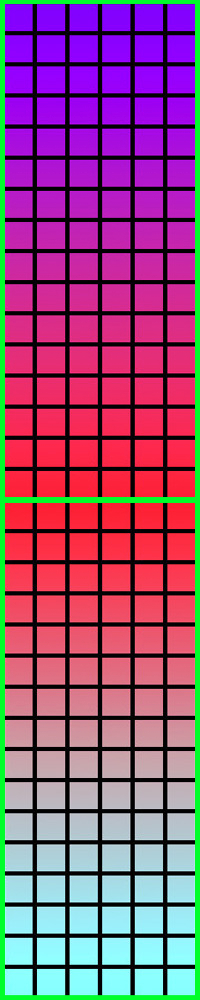
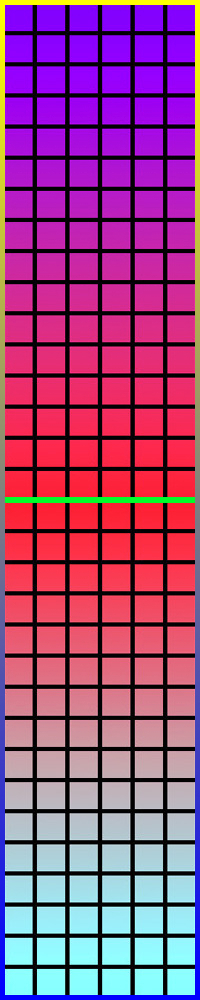
change few things
* add render function
* preserve image aspect on resize
* load image at start

Changed region(s): [[0.0, 0.0, 1.0, 1.0]]

diff --git a/index.js b/index.js
@@ -1,20 +1,21 @@
 'use strict';
 
-var fps = 30;
+var fps = 60;
+var initialOffset;
 var canvas;
 var gl;
 
 var shaderProgram;
 
-var uPMatrixLoc;
-var uMVMatrixLoc;
-var aTextureCoordLoc;
-var aVertexPositionLoc;
-
-var uSamplerLoc;
-var uTextureOffsetLoc;
-var uIsBufferLoc;
-var uBGAspectLoc;
+var aTextureCoord;
+var aVertexPosition;
+var uBGAspect;
+var uInitialOffset;
+var uIsBuffer;
+var uMVMatrix;
+var uPMatrix;
+var uSampler;
+var uTextureOffset;
 
 var backgroundTexture;
 
@@ -42,7 +43,7 @@ function mvPushMatrix() {
 
 function mvPopMatrix() {
     if (mvMatrixStack.length == 0) {
-        throw "Invalid popMatrix!";
+        throw 'Invalid popMatrix!';
     }
     mvMatrix = mvMatrixStack.pop();
 }
@@ -58,7 +59,7 @@ function getShader(gl, id) {
         return null;
     }
 
-    var str = "";
+    var str = '';
     var k = shaderScript.firstChild;
     while (k) {
         if (k.nodeType === 3) {
@@ -88,6 +89,21 @@ function getShader(gl, id) {
 }
 
 
+var last = 0;
+function render(HRTimestamp) {
+    requestAnimationFrame(render);
+
+    if (HRTimestamp - last < 1000 / fps) {
+        return;
+    }
+    last = HRTimestamp;
+
+    resize();
+    drawSceneTexture();
+    drawScene();
+}
+
+
 function drawSceneTexture() {
     gl.bindFramebuffer(gl.FRAMEBUFFER, rttFramebuffer);
     gl.viewport(0, 0, rttFramebuffer.width, rttFramebuffer.height);
@@ -95,19 +111,19 @@ function drawSceneTexture() {
 
 
     gl.bindBuffer(gl.ARRAY_BUFFER, textureScreenVertexPositionBuffer);
-    gl.vertexAttribPointer(aVertexPositionLoc, textureScreenVertexPositionBuffer.itemSize, gl.FLOAT, false, 0, 0);
+    gl.vertexAttribPointer(aVertexPosition, textureScreenVertexPositionBuffer.itemSize, gl.FLOAT, false, 0, 0);
 
     gl.bindBuffer(gl.ARRAY_BUFFER, textureScreenTextureCoordBuffer);
-    gl.vertexAttribPointer(aTextureCoordLoc, textureScreenTextureCoordBuffer.itemSize, gl.FLOAT, false, 0, 0);
+    gl.vertexAttribPointer(aTextureCoord, textureScreenTextureCoordBuffer.itemSize, gl.FLOAT, false, 0, 0);
 
     gl.activeTexture(gl.TEXTURE0);
     gl.bindTexture(gl.TEXTURE_2D, backgroundTexture);
-    gl.uniform1i(uSamplerLoc, 0);
-    gl.uniform1i(uIsBufferLoc, true);
+    gl.uniform1i(uSampler, 0);
+    gl.uniform1i(uIsBuffer, true);
 
     gl.bindBuffer(gl.ELEMENT_ARRAY_BUFFER, textureScreenIndexBuffer);
-    gl.uniformMatrix4fv(uPMatrixLoc, false, pMatrix);
-    gl.uniformMatrix4fv(uMVMatrixLoc, false, mvMatrix);
+    gl.uniformMatrix4fv(uPMatrix, false, pMatrix);
+    gl.uniformMatrix4fv(uMVMatrix, false, mvMatrix);
     gl.drawElements(gl.TRIANGLES, textureScreenIndexBuffer.numItems, gl.UNSIGNED_SHORT, 0);
 
     gl.bindTexture(gl.TEXTURE_2D, rttTexture);
@@ -116,19 +132,7 @@ function drawSceneTexture() {
 }
 
 
-var last = 0;
-function drawScene(HRTimestamp) {
-    requestAnimationFrame(drawScene);
-    if (HRTimestamp - last < 1000 / fps) {
-        return;
-    }
-
-    last = HRTimestamp;
-
-    resize();
-
-    drawSceneTexture();
-
+function drawScene() {
     gl.bindFramebuffer(gl.FRAMEBUFFER, null);
     gl.viewport(0, 0, gl.drawingBufferWidth, gl.drawingBufferHeight);
     gl.clear(gl.COLOR_BUFFER_BIT | gl.DEPTH_BUFFER_BIT);
@@ -138,42 +142,42 @@ function drawScene(HRTimestamp) {
     mat4.translate(mvMatrix, [0, 0, -1]);
 
     gl.bindBuffer(gl.ARRAY_BUFFER, mainScreenVertexPositionBuffer);
-    gl.vertexAttribPointer(aVertexPositionLoc, mainScreenVertexPositionBuffer.itemSize, gl.FLOAT, false, 0, 0);
+    gl.vertexAttribPointer(aVertexPosition, mainScreenVertexPositionBuffer.itemSize, gl.FLOAT, false, 0, 0);
 
     gl.bindBuffer(gl.ARRAY_BUFFER, mainScreenTextureCoordBuffer);
-    gl.vertexAttribPointer(aTextureCoordLoc, mainScreenTextureCoordBuffer.itemSize, gl.FLOAT, false, 0, 0);
+    gl.vertexAttribPointer(aTextureCoord, mainScreenTextureCoordBuffer.itemSize, gl.FLOAT, false, 0, 0);
 
     gl.activeTexture(gl.TEXTURE1);
     gl.bindTexture(gl.TEXTURE_2D, rttTexture);
-    gl.uniform1i(uSamplerLoc, 1);
-    gl.uniform1i(uIsBufferLoc, false);
+    gl.uniform1i(uSampler, 1);
+    gl.uniform1i(uIsBuffer, false);
 
     gl.bindBuffer(gl.ELEMENT_ARRAY_BUFFER, mainScreenIndexBuffer);
-    gl.uniformMatrix4fv(uPMatrixLoc, false, pMatrix);
-    gl.uniformMatrix4fv(uMVMatrixLoc, false, mvMatrix);
+    gl.uniformMatrix4fv(uPMatrix, false, pMatrix);
+    gl.uniformMatrix4fv(uMVMatrix, false, mvMatrix);
     gl.drawElements(gl.TRIANGLES, mainScreenIndexBuffer.numItems, gl.UNSIGNED_SHORT, 0);
 }
 
 
 function resize() {
-    var displayWidth  = canvas.clientWidth;
-    var displayHeight = canvas.clientHeight;
-
-    if (canvas.width  !== displayWidth || canvas.height !== displayHeight) {
-        canvas.width  = displayWidth;
-        canvas.height = displayHeight;
+    if (canvas.width === canvas.clientWidth && canvas.height === canvas.clientHeight) {
+        return;
     }
 
-    var aspect = backgroundTexture.image.height / backgroundTexture.image.width / (canvas.clientHeight / canvas.clientWidth);
-    gl.uniform1f(uBGAspectLoc, aspect);
+    canvas.width = canvas.clientWidth;
+    canvas.height = canvas.clientHeight;
+
+    var aspect = (backgroundTexture.image.height / backgroundTexture.image.width) / (canvas.height / canvas.width);
+    gl.uniform1f(uBGAspect, aspect);
+
+    initialOffset = (1 - 1 / aspect) / 2;
+    gl.uniform2f(uInitialOffset, 0, initialOffset);
+    console.log(initialOffset)
 }
 
 
 function initWebGL(canvas) {
     gl = canvas.getContext('webgl');
-
-    canvas.height = canvas.clientHeight;
-    canvas.width = canvas.clientWidth;
 
     gl.clearColor(0, 0, 0, 1);
     gl.enable(gl.DEPTH_TEST);
@@ -181,8 +185,8 @@ function initWebGL(canvas) {
 
 
 function initProgram() {
-    var fragmentShader = getShader(gl, 'shader-fs');
-    var vertexShader = getShader(gl, 'shader-vs');
+    var fragmentShader = getShader(gl, 'fragment-shader');
+    var vertexShader = getShader(gl, 'vertex-shader');
 
     shaderProgram = gl.createProgram();
     gl.attachShader(shaderProgram, vertexShader);
@@ -194,14 +198,28 @@ function initProgram() {
     }
 
     gl.useProgram(shaderProgram);
+
+    aVertexPosition = gl.getAttribLocation(shaderProgram, 'aVertexPosition');
+    aTextureCoord = gl.getAttribLocation(shaderProgram, 'aTextureCoord');
+    gl.enableVertexAttribArray(aVertexPosition);
+    gl.enableVertexAttribArray(aTextureCoord);
+
+    uBGAspect = gl.getUniformLocation(shaderProgram, 'uBGAspect');
+    uIsBuffer = gl.getUniformLocation(shaderProgram, 'uIsBuffer');
+    uInitialOffset = gl.getUniformLocation(shaderProgram, 'uInitialOffset');
+    uMVMatrix = gl.getUniformLocation(shaderProgram, 'uMVMatrix');
+    uPMatrix = gl.getUniformLocation(shaderProgram, 'uPMatrix');
+    uSampler = gl.getUniformLocation(shaderProgram, 'uSampler');
+    uTextureOffset = gl.getUniformLocation(shaderProgram, 'uTextureOffset');
 }
 
 
 function initbackgroundTexture() {
     backgroundTexture = gl.createTexture();
     backgroundTexture.image = new Image();
-    backgroundTexture.image.src = 'moseshi.jpg';
-    backgroundTexture.image.onload = function () {
+    backgroundTexture.image.src = 'moseshi.2.jpg';
+    // backgroundTexture.image.src = 'long.jpg';
+    backgroundTexture.image.addEventListener('load', function () {
         /* use TEXTURE0 for backgroundTexture */
         gl.bindTexture(gl.TEXTURE_2D, backgroundTexture);
         gl.pixelStorei(gl.UNPACK_FLIP_Y_WEBGL, true);
@@ -214,17 +232,15 @@ function initbackgroundTexture() {
         gl.texParameteri(gl.TEXTURE_2D, gl.TEXTURE_WRAP_T, gl.CLAMP_TO_EDGE);
 
         gl.bindTexture(gl.TEXTURE_2D, null);
-
-        requestAnimationFrame(drawScene);
-    }
+    });
 }
 
 
 function initTextureFramebuffer() {
     rttFramebuffer = gl.createFramebuffer();
     gl.bindFramebuffer(gl.FRAMEBUFFER, rttFramebuffer);
-    rttFramebuffer.width = 2048;
-    rttFramebuffer.height = 2048;
+    rttFramebuffer.width = 1024;
+    rttFramebuffer.height = 1024;
 
     /* use TEXTURE1 for rttTexture */
     rttTexture = gl.createTexture();
@@ -335,23 +351,7 @@ function webGLStart() {
     canvas = document.getElementById('canvas');
     initWebGL(canvas);
 
-
     initProgram();
-
-    uPMatrixLoc = gl.getUniformLocation(shaderProgram, 'uPMatrix');
-    uMVMatrixLoc = gl.getUniformLocation(shaderProgram, 'uMVMatrix');
-
-    uSamplerLoc = gl.getUniformLocation(shaderProgram, 'uSampler');
-    uTextureOffsetLoc = gl.getUniformLocation(shaderProgram, 'uTextureOffset');
-    uIsBufferLoc = gl.getUniformLocation(shaderProgram, 'uIsBuffer');
-    uBGAspectLoc = gl.getUniformLocation(shaderProgram, 'uBGAspect');
-
-    aVertexPositionLoc = gl.getAttribLocation(shaderProgram, 'aVertexPosition');
-    gl.enableVertexAttribArray(aVertexPositionLoc);
-
-    aTextureCoordLoc = gl.getAttribLocation(shaderProgram, 'aTextureCoord');
-    gl.enableVertexAttribArray(aTextureCoordLoc);
-
 
     initbackgroundTexture();
     initTextureFramebuffer();
@@ -359,13 +359,16 @@ function webGLStart() {
     initMainScreen();
     initTextureScreen();
 
-    var uTextureOffset = 0;
-    window.onkeydown=function(e) {
+    var offset = 0;
+    window.addEventListener('keydown', function(e) {
         if (e.key === 'ArrowDown') {
-            uTextureOffset -= .005;
+            offset -= .001;
         } else if (e.key === 'ArrowUp') {
-            uTextureOffset += .005;
+            offset += .001;
         }
-        gl.uniform2f(uTextureOffsetLoc, 0, uTextureOffset);
-    }
+        gl.uniform2f(uTextureOffset, 0, offset);
+    });
+    backgroundTexture.image.addEventListener('load', function() {
+        requestAnimationFrame(render);
+    });
 }

diff --git a/index.html b/index.html
@@ -17,11 +17,11 @@
     </style>
 </head>
 <body onload="webGLStart();">
-    <canvas id="canvas" height="300" width="600"></canvas>
+    <canvas id="canvas"></canvas>
 </body>
 <script type="text/javascript" src="index.js"></script>
 
-<script id="shader-vs" type="x-shader/x-vertex">
+<script id="vertex-shader" type="x-shader/x-vertex">
     attribute vec2 aTextureCoord;
     attribute vec2 aVertexPosition;
 
@@ -43,10 +43,11 @@
     }
 </script>
 
-<script id="shader-fs" type="x-shader/x-fragment">
+<script id="fragment-shader" type="x-shader/x-fragment">
     precision mediump float;
 
     uniform bool uIsBuffer;
+    uniform vec2 uInitialOffset;
     uniform sampler2D uSampler;
     uniform vec2 uTextureOffset;
 
@@ -54,26 +55,21 @@
 
     void main() {
         if (uIsBuffer) {
-            vec2 XY = vTextureCoord + uTextureOffset;
-            gl_FragColor = texture2D(uSampler, XY);
+            gl_FragColor = texture2D(uSampler, vTextureCoord + uInitialOffset + uTextureOffset);
         } else {
-            float multiplier = .1;
-            float power = 2.;
+            vec2 multiplier = vec2(.08, 0);
+            vec2 edgeRecover = vec2(1.05, 1);
 
             vec2 XY;
-            vec2 A;
-            float L;
             bvec2 isValid;
 
             XY = vTextureCoord;
-            A = vec2(multiplier, 0);
 
             // Normalize components from range {0, 1} to {-1, 1}
             XY = (2. * XY) - 1.;
-            L = length(XY);
 
             // Calculate distortion
-            XY = XY * (1. - A * pow(L, power));
+            XY = XY * (1. - multiplier * dot(XY, XY)) * edgeRecover;
 
             // Filter valid regions
             isValid = lessThanEqual(abs(XY), vec2(1, 1));

diff --git a/README.md b/README.md
@@ -2,12 +2,13 @@
 
 Add a rolling background to the website.
 
-###ToDo
+### ToDo
 
 - [x] Basic controls (keyboard)
 - [x] Dynamic Canvas
 - [x] FPS control
-- [ ] Edge preservation
+- [x] Edge preservation
 - [ ] Limits
-- [ ] Start at top
-- [ ] Preserve image aspect
+- [x] Start at top
+- [x] Preserve image aspect
+- [ ] Shift viewpoint
